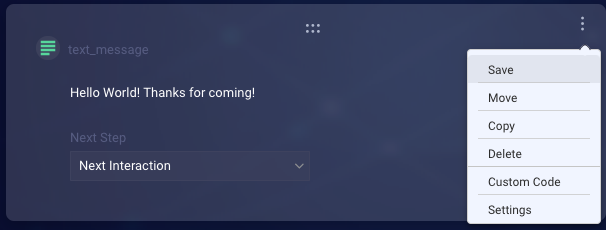
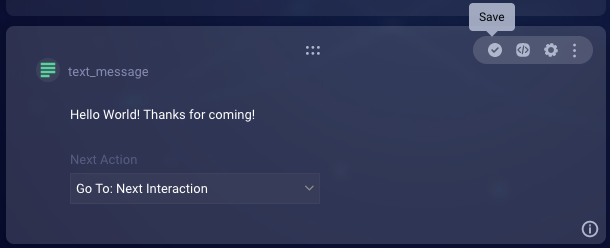
Update topic for Dialog Editor release

diff --git a/pages/documents/Getting Started/Quick-start/quick-start-bots.md b/pages/documents/Getting Started/Quick-start/quick-start-bots.md
@@ -18,8 +18,8 @@ Create a "Hello World" bot using Conversation Builder.
 
 ## Step 1: Log in and access Conversation Builder
 
-1. Log in to [LiveEngage](https://authentication.liveperson.net/).
-2. On the left sidebar, click the bot icon.
+1. Log in to [Conversational Cloud](https://authentication.liveperson.net/).
+2. On the left sidebar, click the bot icon ("Manage conversational AI and bots").
 3. In the Conversational AI dashboard, click **Conversation Builder**.
 
 ## Step 2: Create a "Hello World" bot
@@ -35,7 +35,7 @@ Create a "Hello World" bot using Conversation Builder.
 5. In the Dialogs panel on the left, click **1 Welcome** and **2 Fallback** to open and examine both dialogs.
 6. Preview the bot:
     1. Click **Preview** in the upper-right corner of the screen to open the Preview window.
-    2. Enter “hello.” You will see the response, “Hi there! Thanks for coming!”
+    2. Enter “hello” and press **Send**. You will see the response, “Hi there! Thanks for coming!”
 
 **Congratulations!** You’ve just created your first bot!
 
@@ -43,35 +43,32 @@ Create a "Hello World" bot using Conversation Builder.
 
 ### Add a new pattern
 1. If the Welcome dialog isn't already open, open it by clicking **1 Welcome** in the Dialogs panel on the left.
-2. Select the first interaction (a User Says interaction), and click the 3-dot icon in the upper-right corner of the tile.
+2. Select the first interaction (a Dialog Starter interaction), and click the pattern that's displayed directly on the tile.
 
     <img style="width:600px" src="img/cb_window1.png">
 
-3. Select **Settings** from the menu.
-4. Under **Patterns**, click in the field, enter "aloha," and press Enter.
+3. In the **Interaction Settings** dialog, under **Patterns**, enter "aloha," and press Enter.
 
-    <img style="width:400px" src="img/cb_window2.png">
+    <img style="width:600px" src="img/cb_window2.png">
 
 5. Click **Save**.
 6. Select the second interaction, and change the text statement from "Hi there!" to "Hello World!"
-7. Click the interaction's 3-dot icon, and select **Save**.
+7. Click the interaction's **Save** button.
 
-    <img style="width:400px" src="img/cb_window3.png">
+    <img style="width:600px" src="img/cb_window3.png">
  
 ### Preview the bot again
 
-1. Open the Preview window like you did before, and start a new session by entering “reset” in the window.
+1. Open the Preview window like you did before, and start a new session by clicking **Reset Session** in the upper-right corner.
 2. Enter “aloha.” You will see that the bot responds to this new greeting with "Hello World!"
 
-## Step 4: Connect your bot to LiveEngage
+## Step 4: Connect your bot to Conversational Cloud
 
 ### Create the skill and user agent
 
 In this step, you create a user agent for the bot. The user agent will have an assigned skill, which you'll create first.
 
-1. Click the **Manage users and skills** icon on the left toolbar.
-
-    <img style="width:200px" src="img/cb_users_skills_icon.png">
+1. On the left sidebar in Conversational Cloud, click the user icon ("Manage users and skills").
 
 2. Click the **Skills** tab, and then click **Add skill** at the bottom of the page.
 
